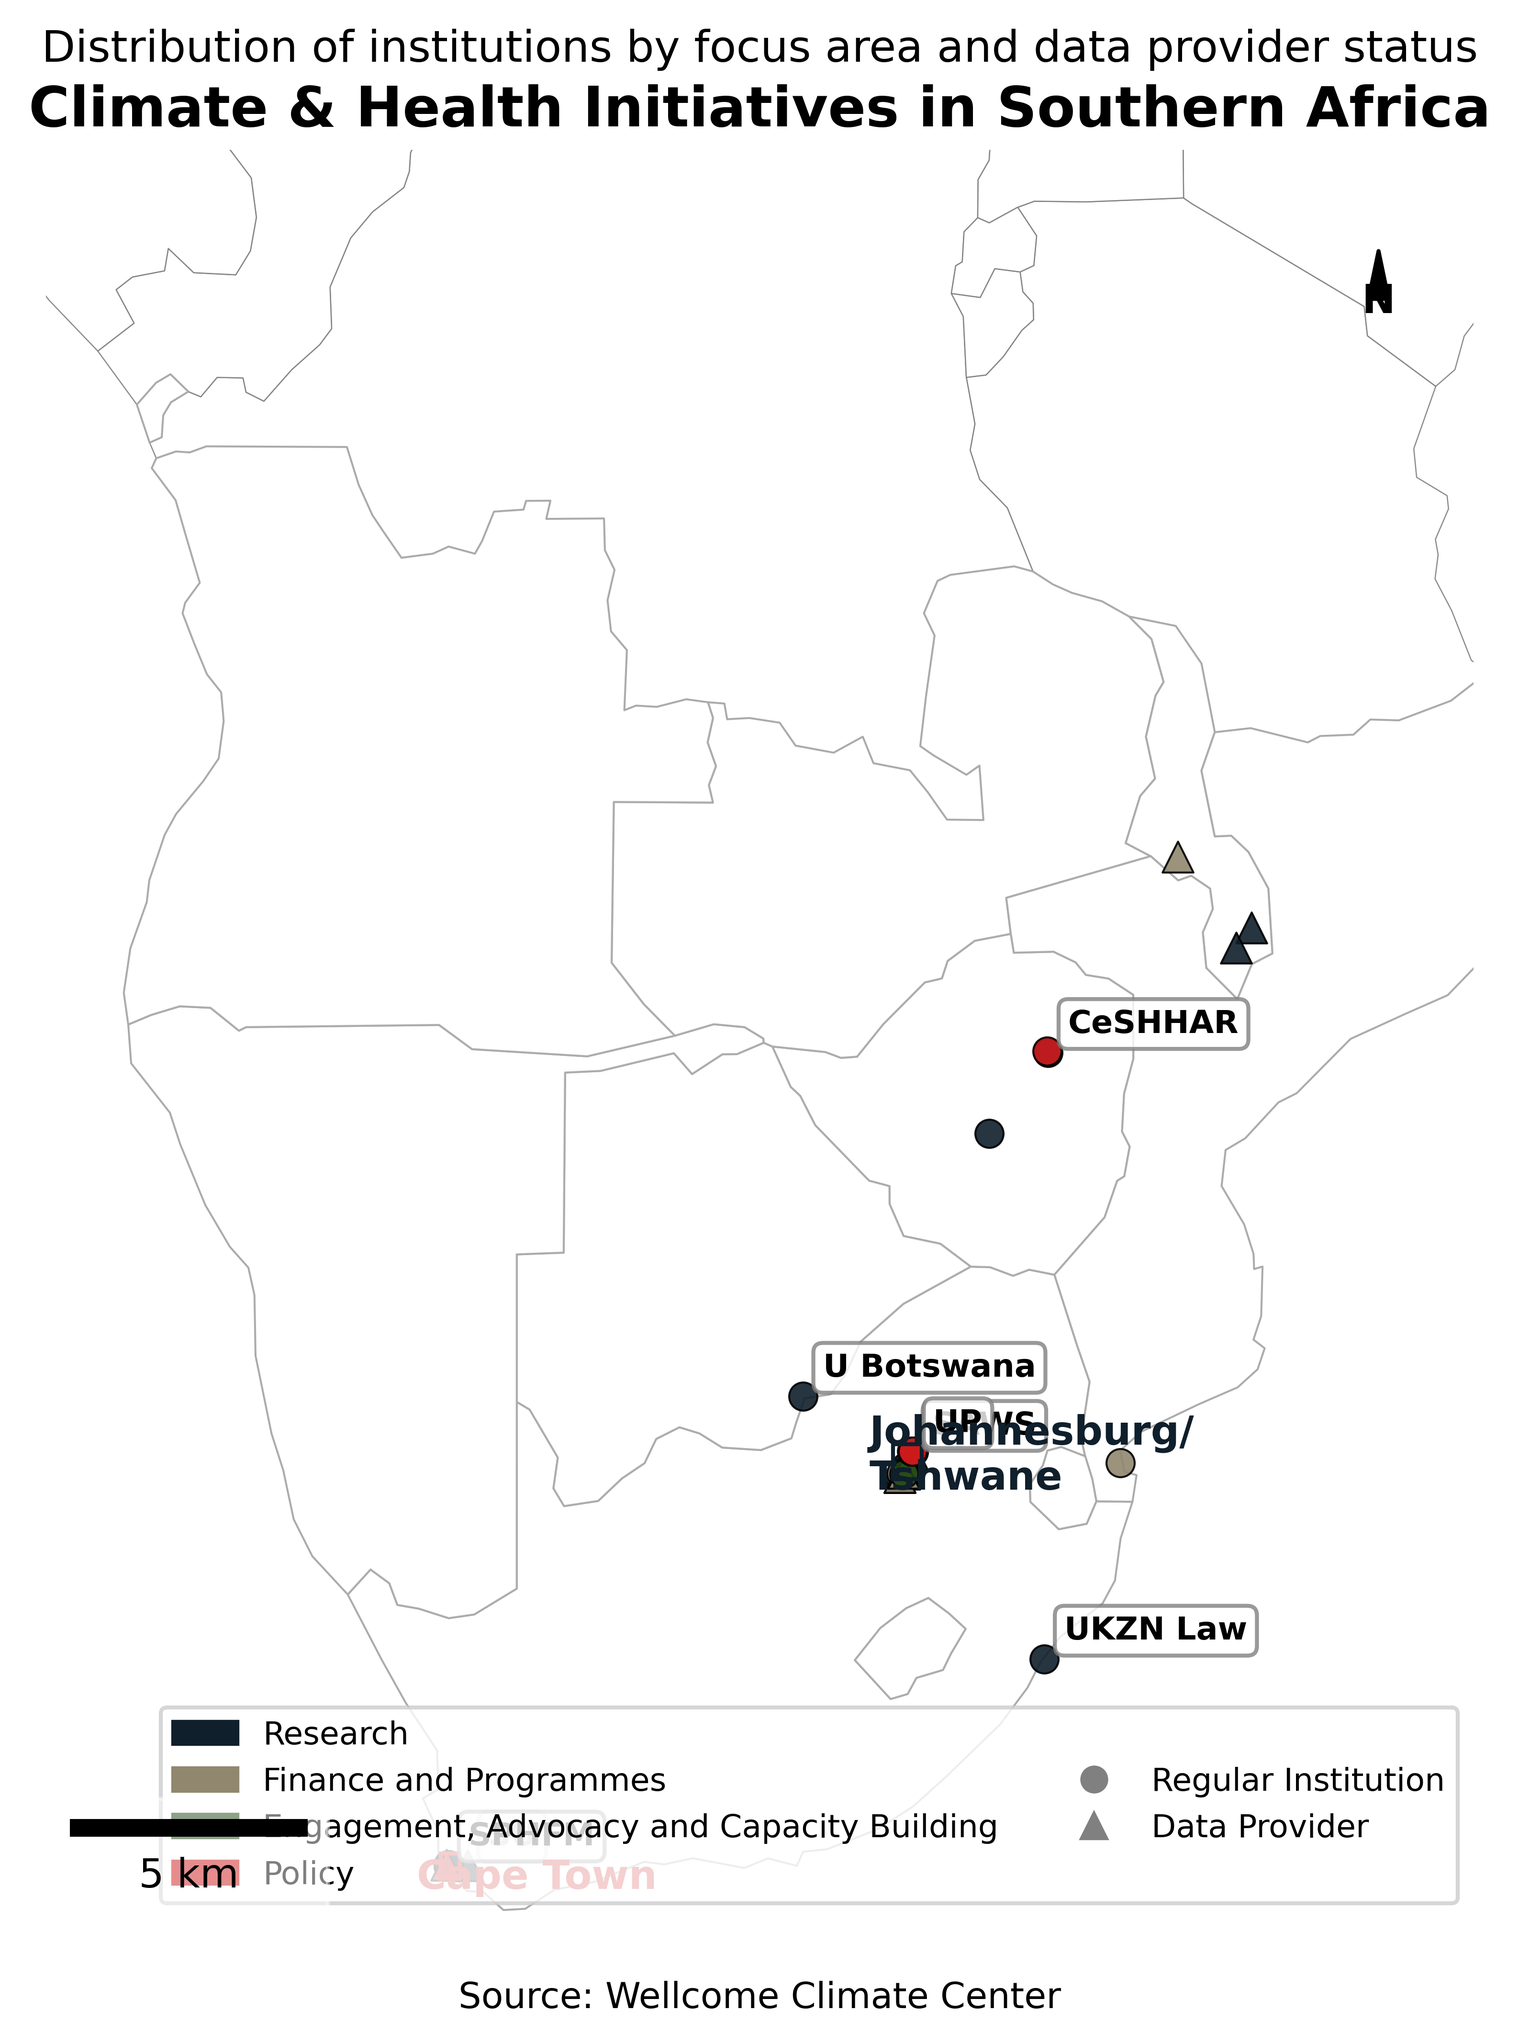
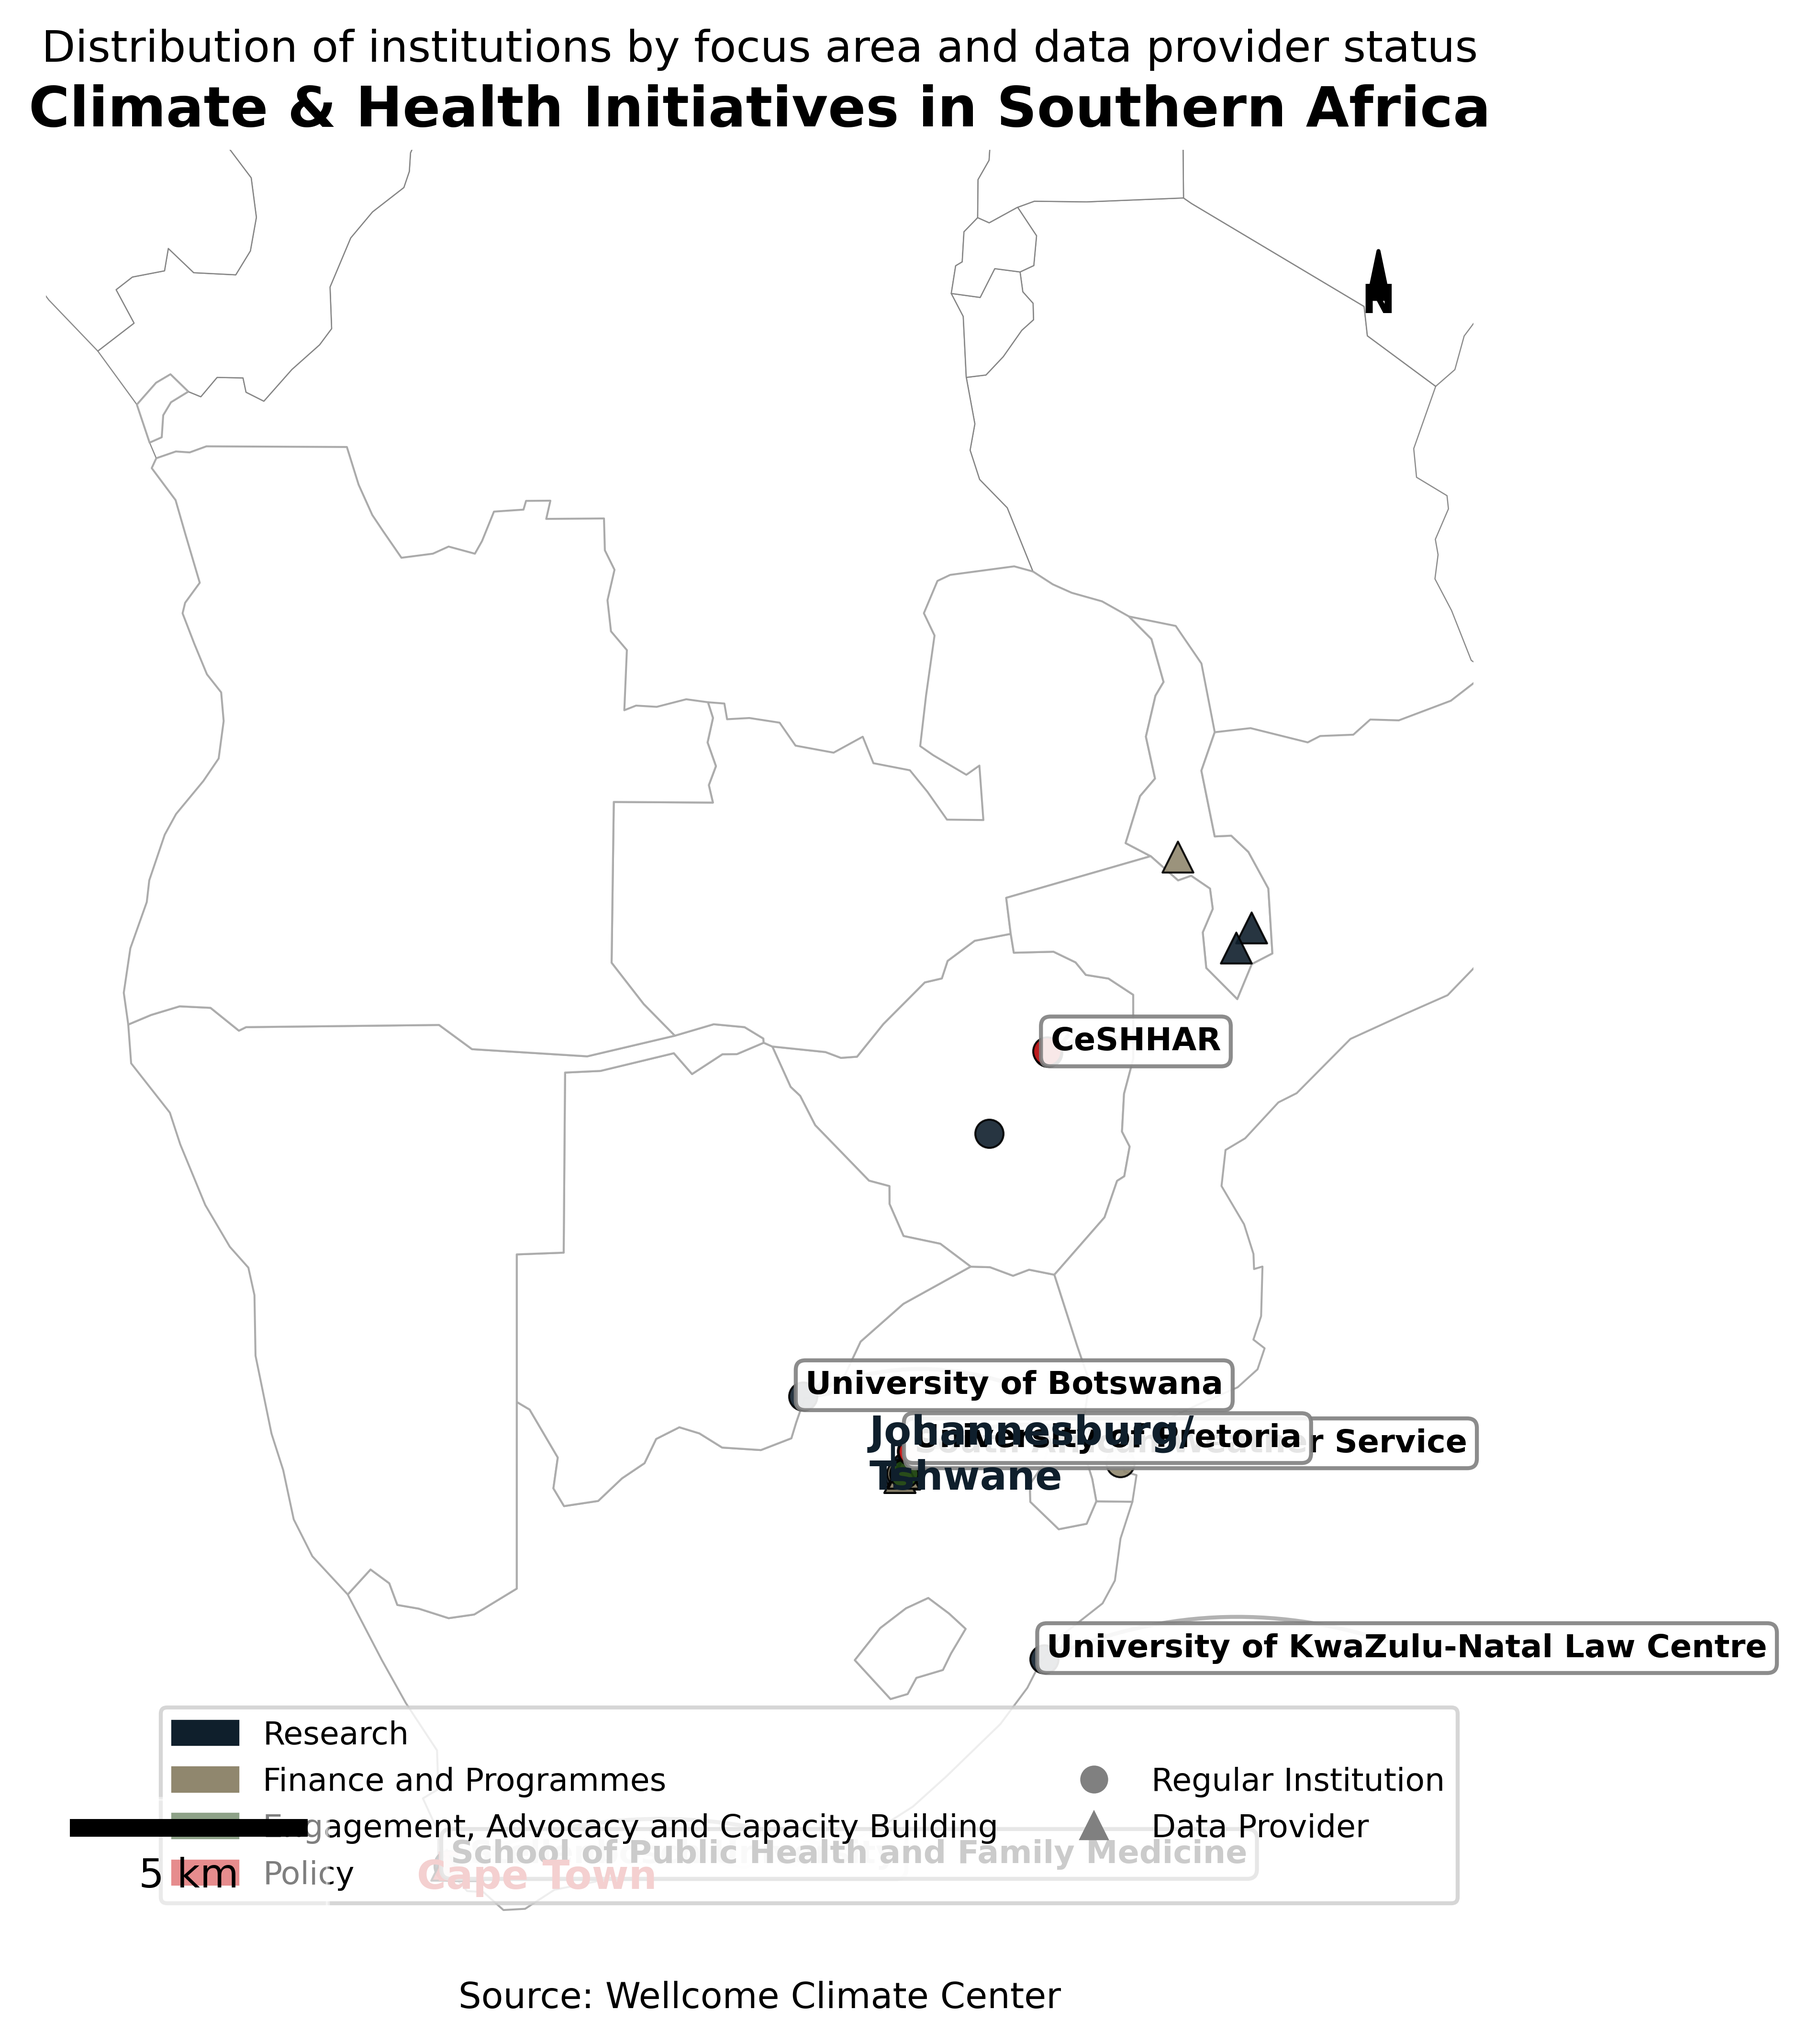
with improvements

diff --git a/create_map.py b/create_map.py
@@ -9,6 +9,7 @@ import matplotlib.patches as mpatches
 import matplotlib.lines as mlines
 import os
 from shapely.geometry import Point
+import matplotlib as mpl
 
 # Set matplotlib params for better output
 plt.rcParams['font.family'] = 'sans-serif'
@@ -163,13 +164,69 @@ def create_main_map(data, africa, southern_africa, include_boxes=False):
                       c=color, marker='^', s=60, label=f"{focus_type} (Data Provider)",
                       edgecolor='black', linewidth=0.5, alpha=0.9)
     
-    # Add labels for major partners
-    for idx, row in data[data['is_major_partner']].iterrows():
-        ax.annotate(row['Short_Name'], 
-                   (row.geometry.x, row.geometry.y),
-                   xytext=(5, 5), textcoords='offset points',
-                   bbox=dict(boxstyle="round,pad=0.3", fc="white", ec="gray", alpha=0.8),
-                   fontsize=8, fontweight='bold')
+    # Add labels for major partners with overlap avoidance
+    used_positions = {}  # Keep track of label positions
+    
+    # Sort by latitude to prioritize placement
+    labeled_data = data[data['is_major_partner']].sort_values('lat')
+    
+    for idx, row in labeled_data.iterrows():
+        x, y = row.geometry.x, row.geometry.y
+        full_name = row['Institution']  # Use full institution name
+        
+        # Initialize label position
+        label_x = x + 0.05
+        label_y = y + 0.05
+        
+        # Check for overlaps and adjust position
+        overlap = True
+        offsets = [(0.05, 0.05), (-0.05, 0.05), (0.05, -0.05), (-0.05, -0.05),
+                  (0.1, 0), (-0.1, 0), (0, 0.1), (0, -0.1)]
+        
+        for dx, dy in offsets:
+            test_x = x + dx
+            test_y = y + dy
+            
+            # Check if this position is far enough from other labels
+            position_ok = True
+            for used_x, used_y in used_positions.values():
+                if abs(test_x - used_x) < 0.2 and abs(test_y - used_y) < 0.1:
+                    position_ok = False
+                    break
+            
+            if position_ok:
+                label_x = test_x
+                label_y = test_y
+                overlap = False
+                break
+        
+        # Store the used position
+        used_positions[full_name] = (label_x, label_y)
+        
+        # Add label with background box
+        bbox_props = dict(
+            boxstyle="round,pad=0.3",
+            fc="white",
+            ec="gray",
+            alpha=0.9,
+            mutation_scale=0.5
+        )
+        
+        # Create arrow connection
+        ax.annotate(
+            full_name,
+            xy=(x, y),  # Institution point
+            xytext=(label_x, label_y),  # Label position
+            bbox=bbox_props,
+            fontsize=8,
+            fontweight='bold',
+            arrowprops=dict(
+                arrowstyle="->",
+                connectionstyle="arc3,rad=0.2",
+                color='gray',
+                alpha=0.6
+            )
+        )
     
     # Add inset boxes if requested
     if include_boxes:
@@ -354,6 +411,81 @@ def create_inset_map(data, bbox, area_name):
 def create_combined_layout(main_fig, jhb_fig, cape_fig):
     print("Creating combined layout")
     
+    # Function to copy artists from source to target axis
+    def copy_artists(ax_source, ax_target):
+        for artist in ax_source.get_children():
+            if isinstance(artist, (plt.Line2D, plt.Polygon, plt.Text, plt.Rectangle, mpatches.Patch)):
+                try:
+                    artist_copy = artist.copy()
+                    ax_target.add_artist(artist_copy)
+                except AttributeError:
+                    # Skip annotations that can't be copied
+                    continue
+    
+    # Create new figure for combined layout
+    fig = plt.figure(figsize=(15, 10))
+    
+    # Create main map axis
+    ax_main = fig.add_axes([0.1, 0.1, 0.8, 0.8])
+    
+    # Copy main map content
+    copy_artists(main_fig.axes[0], ax_main)
+    
+    # Create Johannesburg inset
+    ax_jhb = fig.add_axes([0.82, 0.5, 0.15, 0.35])
+    copy_artists(jhb_fig.axes[0], ax_jhb)
+    
+    # Create Cape Town inset
+    ax_cape = fig.add_axes([0.82, 0.1, 0.15, 0.35])
+    copy_artists(cape_fig.axes[0], ax_cape)
+    
+    return fig
+
+# Create dashboard style layout
+def create_dashboard(main_fig, jhb_fig, cape_fig):
+    print("Creating dashboard layout")
+    
+    # Function to copy artists from source to target axis
+    def copy_artists(ax_source, ax_target):
+        # Copy collections (scatter plots, etc)
+        for collection in ax_source.collections:
+            if isinstance(collection, mpl.collections.PathCollection):
+                # Handle scatter plots
+                collection_copy = ax_target.scatter(
+                    collection.get_offsets()[:, 0],
+                    collection.get_offsets()[:, 1],
+                    s=collection.get_sizes(),
+                    c=collection.get_facecolors(),
+                    marker=collection.get_paths()[0] if len(collection.get_paths()) > 0 else 'o',
+                    alpha=collection.get_alpha(),
+                    zorder=collection.get_zorder()
+                )
+            elif isinstance(collection, mpl.collections.PatchCollection):
+                # Handle rectangles and other patches
+                for patch in collection.get_paths():
+                    patch_copy = mpatches.PathPatch(
+                        patch,
+                        facecolor=collection.get_facecolor(),
+                        edgecolor=collection.get_edgecolor(),
+                        linewidth=collection.get_linewidth(),
+                        alpha=collection.get_alpha()
+                    )
+                    ax_target.add_patch(patch_copy)
+        
+        # Copy other artists
+        for artist in ax_source.get_children():
+            if isinstance(artist, (plt.Line2D, plt.Polygon, plt.Text, plt.Rectangle, mpatches.Patch)):
+                try:
+                    artist_copy = artist.copy()
+                    ax_target.add_artist(artist_copy)
+                except (AttributeError, ValueError):
+                    # Skip artists that can't be copied
+                    continue
+        
+        # Set the limits
+        ax_target.set_xlim(ax_source.get_xlim())
+        ax_target.set_ylim(ax_source.get_ylim())
+    
     # Create a new figure for the combined layout
     fig, axes = plt.subplots(2, 1, figsize=(15, 18), gridspec_kw={'height_ratios': [1.2, 1]})
     
@@ -366,32 +498,15 @@ def create_combined_layout(main_fig, jhb_fig, cape_fig):
     axes[1].axis('off')
     bottom_grid.axis('off')
     
-    # Copy content from individual figures to the combined layout
-    for ax_source, ax_target in [(main_fig.axes[0], axes[0]), 
-                                 (jhb_fig.axes[0], bottom_left),
-                                 (cape_fig.axes[0], bottom_right)]:
-        # Get the content from the source axis
-        for artist in ax_source.get_children():
-            if isinstance(artist, (plt.Line2D, plt.Polygon, plt.Text, plt.Rectangle, mpatches.Patch)):
-                artist_copy = artist.copy()
-                ax_target.add_artist(artist_copy)
-        
-        # Copy scatter plots
-        for collection in ax_source.collections:
-            collection_copy = ax_target.scatter(
-                collection.get_offsets()[:, 0],
-                collection.get_offsets()[:, 1],
-                s=collection.get_sizes(),
-                c=collection.get_facecolors(),
-                marker=collection.get_paths()[0],
-                alpha=collection.get_alpha(),
-                zorder=collection.get_zorder()
-            )
-        
-        # Set the limits
-        ax_target.set_xlim(ax_source.get_xlim())
-        ax_target.set_ylim(ax_source.get_ylim())
-        ax_target.axis('off')
+    # Copy content from individual figures
+    copy_artists(main_fig.axes[0], axes[0])
+    copy_artists(jhb_fig.axes[0], bottom_left)
+    copy_artists(cape_fig.axes[0], bottom_right)
+    
+    # Turn off axes
+    axes[0].axis('off')
+    bottom_left.axis('off')
+    bottom_right.axis('off')
     
     # Add panel labels
     axes[0].text(-0.05, 1.0, 'A', transform=axes[0].transAxes, 
@@ -411,123 +526,6 @@ def create_combined_layout(main_fig, jhb_fig, cape_fig):
     
     # Adjust layout
     plt.tight_layout(rect=[0, 0.03, 1, 0.95])
-    
-    return fig
-
-# Create dashboard style layout
-def create_dashboard(main_fig, jhb_fig, cape_fig):
-    print("Creating dashboard layout")
-    
-    # Create a new figure for the dashboard
-    fig = plt.figure(figsize=(16, 12))
-    
-    # Use gridspec for more control
-    gs = fig.add_gridspec(1, 1)
-    
-    # Main map covers the entire figure
-    ax_main = fig.add_subplot(gs[0, 0])
-    
-    # Copy main map to the background
-    for artist in main_fig.axes[0].get_children():
-        if isinstance(artist, (plt.Line2D, plt.Polygon, plt.Text, plt.Rectangle, mpatches.Patch)):
-            artist_copy = artist.copy()
-            ax_main.add_artist(artist_copy)
-    
-    # Copy scatter plots
-    for collection in main_fig.axes[0].collections:
-        collection_copy = ax_main.scatter(
-            collection.get_offsets()[:, 0],
-            collection.get_offsets()[:, 1],
-            s=collection.get_sizes(),
-            c=collection.get_facecolors(),
-            marker=collection.get_paths()[0],
-            alpha=collection.get_alpha(),
-            zorder=collection.get_zorder()
-        )
-    
-    # Set the limits
-    ax_main.set_xlim(main_fig.axes[0].get_xlim())
-    ax_main.set_ylim(main_fig.axes[0].get_ylim())
-    ax_main.axis('off')
-    
-    # Add inset axes for Johannesburg
-    ax_jhb = fig.add_axes([0.55, 0.07, 0.43, 0.35])
-    ax_jhb.set_facecolor('white')
-    ax_jhb.patch.set_alpha(0.8)
-    
-    # Add inset axes for Cape Town
-    ax_cape = fig.add_axes([0.02, 0.07, 0.43, 0.35])
-    ax_cape.set_facecolor('white')
-    ax_cape.patch.set_alpha(0.8)
-    
-    # Copy Johannesburg map content
-    for artist in jhb_fig.axes[0].get_children():
-        if isinstance(artist, (plt.Line2D, plt.Polygon, plt.Text, plt.Rectangle, mpatches.Patch)):
-            artist_copy = artist.copy()
-            ax_jhb.add_artist(artist_copy)
-    
-    # Copy Cape Town map content
-    for artist in cape_fig.axes[0].get_children():
-        if isinstance(artist, (plt.Line2D, plt.Polygon, plt.Text, plt.Rectangle, mpatches.Patch)):
-            artist_copy = artist.copy()
-            ax_cape.add_artist(artist_copy)
-    
-    # Copy scatter plots for Johannesburg
-    for collection in jhb_fig.axes[0].collections:
-        collection_copy = ax_jhb.scatter(
-            collection.get_offsets()[:, 0],
-            collection.get_offsets()[:, 1],
-            s=collection.get_sizes(),
-            c=collection.get_facecolors(),
-            marker=collection.get_paths()[0],
-            alpha=collection.get_alpha(),
-            zorder=collection.get_zorder()
-        )
-    
-    # Copy scatter plots for Cape Town
-    for collection in cape_fig.axes[0].collections:
-        collection_copy = ax_cape.scatter(
-            collection.get_offsets()[:, 0],
-            collection.get_offsets()[:, 1],
-            s=collection.get_sizes(),
-            c=collection.get_facecolors(),
-            marker=collection.get_paths()[0],
-            alpha=collection.get_alpha(),
-            zorder=collection.get_zorder()
-        )
-    
-    # Set the limits
-    ax_jhb.set_xlim(jhb_fig.axes[0].get_xlim())
-    ax_jhb.set_ylim(jhb_fig.axes[0].get_ylim())
-    ax_jhb.axis('off')
-    
-    ax_cape.set_xlim(cape_fig.axes[0].get_xlim())
-    ax_cape.set_ylim(cape_fig.axes[0].get_ylim())
-    ax_cape.axis('off')
-    
-    # Add a border around insets
-    for ax, color in [(ax_jhb, '#0F1F2C'), (ax_cape, '#CD1A1B')]:
-        ax.spines['top'].set_visible(True)
-        ax.spines['bottom'].set_visible(True)
-        ax.spines['left'].set_visible(True)
-        ax.spines['right'].set_visible(True)
-        ax.spines['top'].set_color(color)
-        ax.spines['bottom'].set_color(color)
-        ax.spines['left'].set_color(color)
-        ax.spines['right'].set_color(color)
-        ax.spines['top'].set_linewidth(2)
-        ax.spines['bottom'].set_linewidth(2)
-        ax.spines['left'].set_linewidth(2)
-        ax.spines['right'].set_linewidth(2)
-    
-    # Add overall title
-    fig.suptitle("Climate & Health Initiatives in Southern Africa", 
-                fontsize=18, fontweight='bold', y=0.98)
-    fig.text(0.5, 0.95, "Regional Overview with Urban Detail Insets", 
-            ha='center', fontsize=14)
-    
-    # Adjust layout
-    plt.tight_layout(rect=[0, 0, 1, 0.95])
     
     return fig
 
